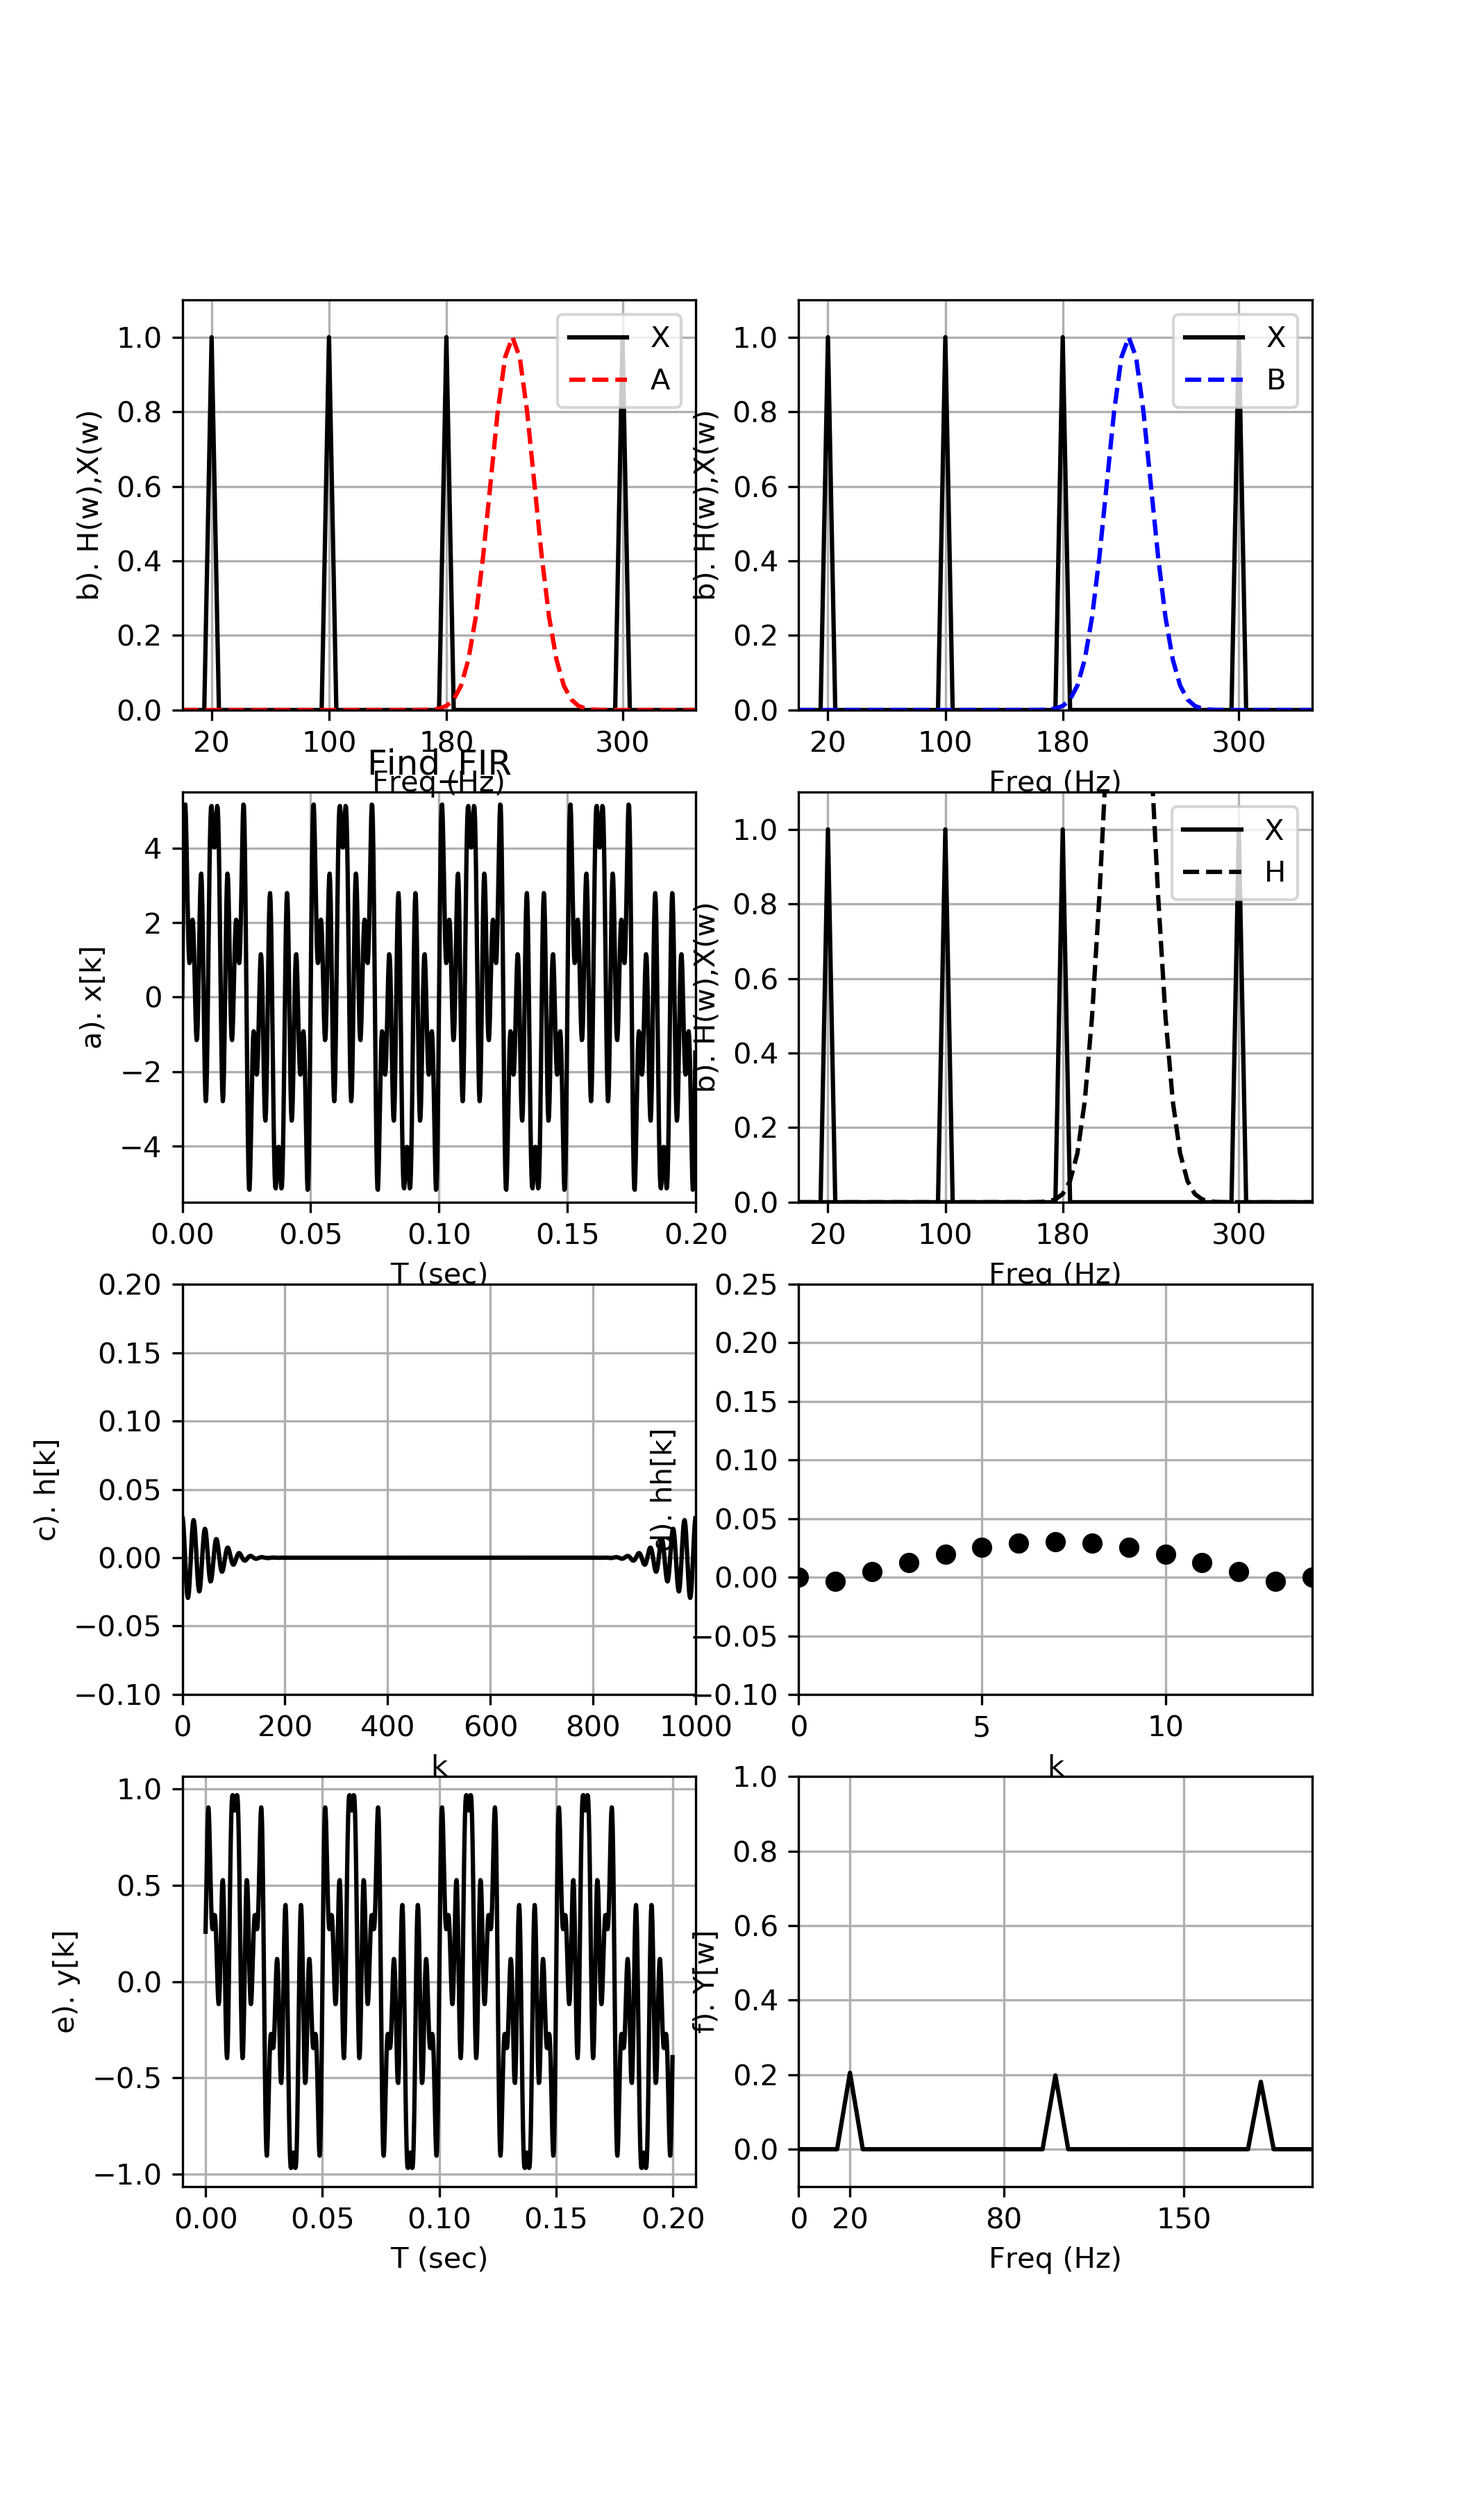
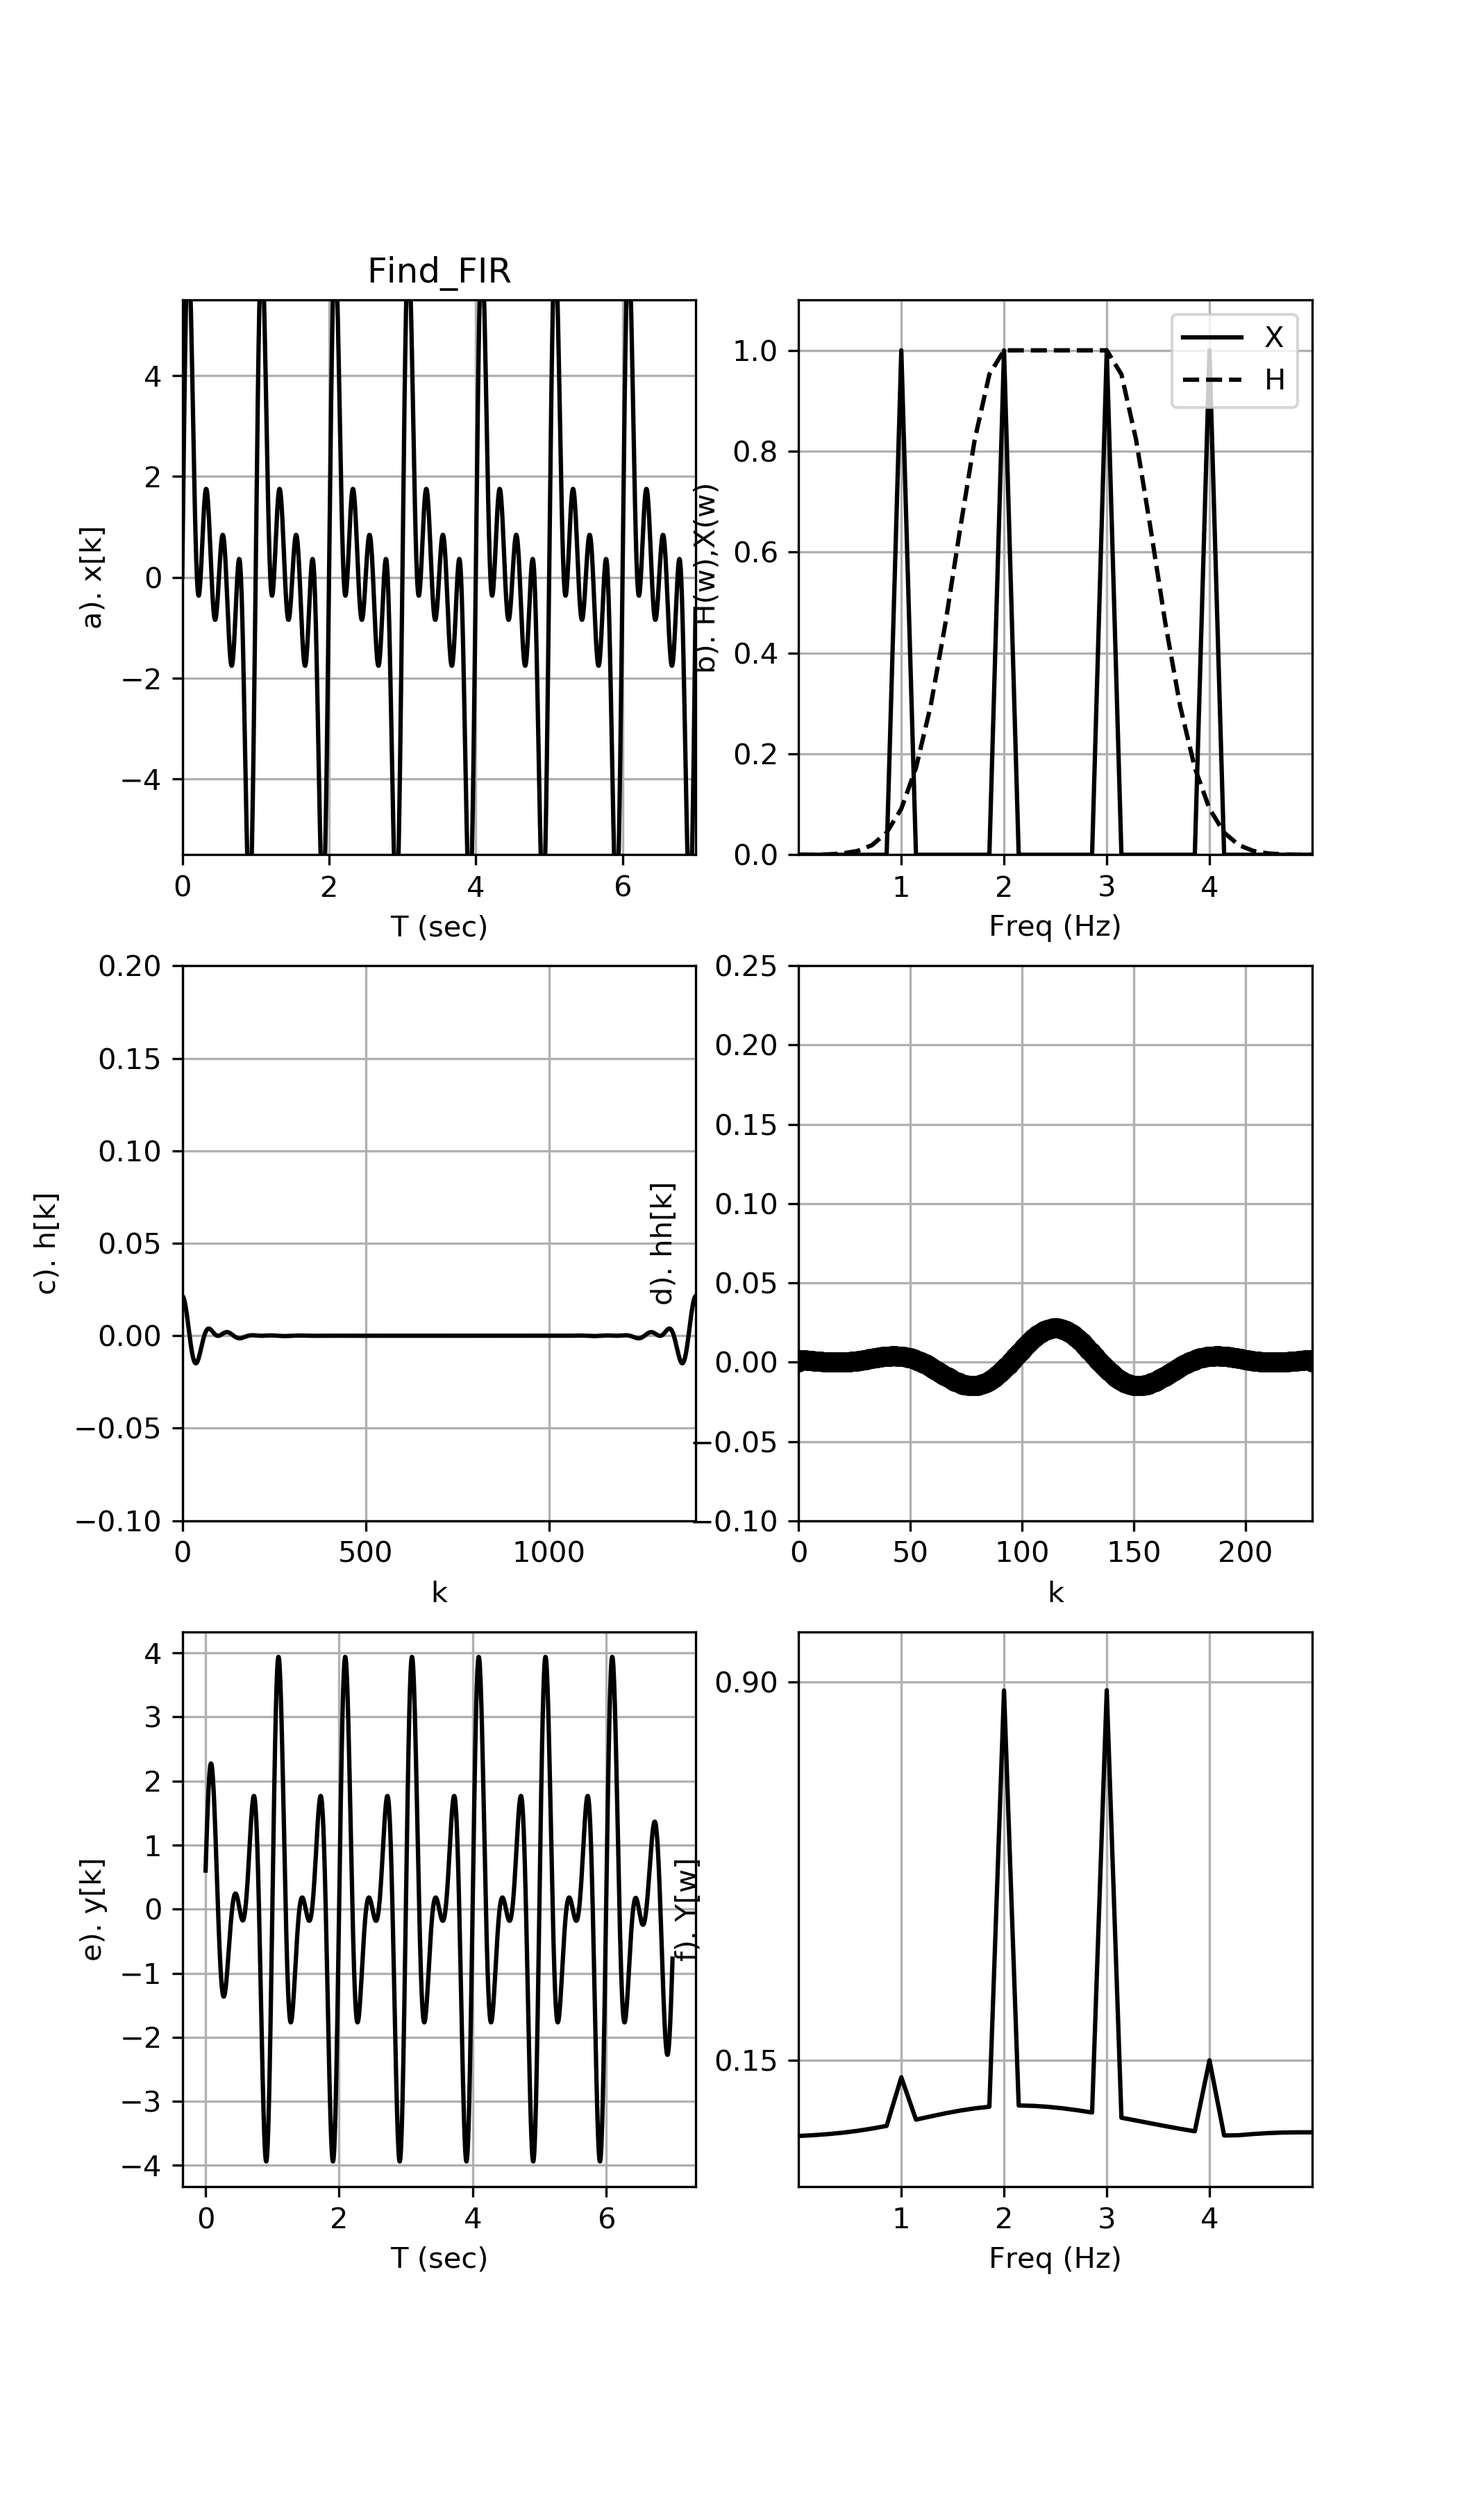
11-30-2023

diff --git a/FindFIR.py b/FindFIR.py
@@ -4,37 +4,40 @@ import matplotlib.pyplot as plt
 import numpy as np
 from scipy import signal as sig
 from math import pi, exp, cos, sin, log, sqrt
-dt = .0002
-NN = 1000
+
+dt = .005
+NN = 1400
 
 N2 = int(NN/2)
 x = np.zeros(NN)
 y = np.zeros(NN)
 
 def bandaid(first,H):
+    first = int(first)
     I = H
-    fend = first + 0
+    tol = 3.2
+    fend = int(first + first/2)
     for n in range(first):
-        I[n] = exp(-.5*((n-first)/3)**2)
+        I[n] = exp(-.5*((n-first)/tol)**2)
     for n in range(first,fend):
         I[n] = 1
     for n in range(fend,N2):
-        I[n] = exp(-.5*((n-fend)/3)**2)
+        I[n] = exp(-.5*((n-fend)/tol)**2)
     return I
 
 
 TT = np.linspace(0,dt*(NN-1),NN)
 DF = 1/(dt*NN)
 FF = np.linspace(0,DF*(NN-1),NN)
-f1 = 20
-f2 = 100
-f3 = 180
-f4 = 300
+f1 = 1
+f2 = 2
+f3 = 3
+f4 = 4
 
-freq1 = 2*pi*f1
-freq2 = 2*pi*f2
-freq3 = 2*pi*f3
-freq4 = 2*pi*f4
+freq1 = f1*2*pi
+freq2 = f2*2*pi
+freq3 = f3*2*pi
+freq4 = f4*2*pi
 
 x = 2*np.sin(freq1*TT)
 x+= 2*np.sin(freq2*TT)
@@ -42,7 +45,7 @@ x+= 2*np.sin(freq3*TT)
 x+= 2*np.sin(freq4*TT)
 
 plt.figure(figsize=[7,12])
-plt.subplot(423)
+plt.subplot(321)
 plt.plot(TT,x,'k')
 plt.axis([0,NN*dt,-5.5,5.5])
 plt.text(5,-15,'$\phi$ = {}'.format(round(14,3)),fontsize=12)
@@ -62,29 +65,8 @@ H = np.zeros(NN)
 #for n in range(4,16):
 # H[n] = exp(-.5*((n-4)/4)**2)
 """ Band pass """
-A = bandaid(20,H)
-B = bandaid(45,H)
-H = A+B
+H = bandaid(NN/100,H)
 
-plt.subplot(421)
-plt.plot(FF,abs(X),'k',label='X')
-plt.plot(FF,A,'r--',label='A')
-plt.legend(loc='upper right')
-plt.ylabel('b). H(w),X(w)')
-plt.xlabel('Freq (Hz)')
-plt.grid()
-plt.axis([0,350,0,1.1])
-plt.xticks([20,100,180,300])
-
-plt.subplot(422)
-plt.plot(FF,abs(X),'k',label='X')
-plt.plot(FF,B,'b--',label='B')
-plt.legend(loc='upper right')
-plt.ylabel('b). H(w),X(w)')
-plt.xlabel('Freq (Hz)')
-plt.grid()
-plt.axis([0,350,0,1.1])
-plt.xticks([20,100,180,300])
 """ High pass """
 #for n in range(15):
 # H[n] = exp(-.5*((n-15)/4)**2)
@@ -94,34 +76,35 @@ plt.xticks([20,100,180,300])
 for n in range(1,N2-1):
     H[NN-n] = H[n]
 Y = H*X
-plt.subplot(424)
+plt.subplot(322)
 plt.plot(FF,abs(X),'k',label='X')
 plt.plot(FF,H,'k--',label='H')
 plt.legend(loc='upper right')
 plt.ylabel('b). H(w),X(w)')
 plt.xlabel('Freq (Hz)')
 plt.grid()
-plt.axis([0,350,0,1.1])
-plt.xticks([20,100,180,300])
+plt.axis([0,5,0,1.1])
+plt.xticks([1,2,3,4])
 
 h = np.fft.ifft(H)
 
-plt.subplot(425)
+plt.subplot(323)
 plt.plot(h.real,'k')
 plt.xlabel('k')
 plt.ylabel('c). h[k]')
 plt.grid()
 plt.axis([0,NN,-.1,.2])
 
-M = 7
+M = 115
 hh = np.zeros(NN)
 
 """ Move the filter to the left side """
 for n in range(M):
     hh[n+M] = h[n].real
     hh[M-n] = hh[M+n]
+    print('hh[',n,']=',hh[n])
 
-plt.subplot(426)
+plt.subplot(324)
 plt.plot(hh,'ok')
 plt.axis([0 ,2*M,-.1,.25])
 plt.xlabel('k')
@@ -136,7 +119,7 @@ y = np.zeros(NN)
 for n in range(NN):
     y[n] = yy[n+M]
 
-plt.subplot(427)
+plt.subplot(325)
 plt.plot(TT,y,'k')
 plt.ylabel('e). y[k]')
 plt.xlabel('T (sec)')
@@ -144,10 +127,11 @@ plt.grid()
 
 Y = (1/NN)*np.fft.fft(y)
 
-plt.subplot(428)
+plt.subplot(326)
 plt.plot(FF,abs(Y),'k')
-plt.axis([0,200,-.1,1])
-plt.xticks([0,20,80,150])
+plt.axis([0,5,-.1,1])
+plt.xticks([1,2,3,4])
+plt.yticks([0.15,0.9])
 plt.ylabel('f). Y[w]')
 plt.xlabel('Freq (Hz)')
 plt.grid()

diff --git a/Exam4.py b/Exam4.py
@@ -2,7 +2,7 @@
 #                                                              #
 # Zachary DeLuca                                               #
 # ECE 450                                                      #
-# Exam 2                                                       #
+# Exam 4                                                     #
 # Due: Oct 06                                                  #
 #                                                              #
 ################################################################
@@ -33,19 +33,32 @@ den = np.convolve(den,[1,2*cos(1*pi/3)*s,s**2])
 system = sig.lti(num,den)
 w,Hmag,Hphase = sig.bode(system)
 
-plt.figure(figsize= (10,5))
+plt.figure(figsize= (8,8))
+plt.subplot(2,1,1)
 plt.title('Third Order Low Pass',size = 20)
 plt.axis([s/10,s*10,0,1])
 plt.axvline(s,color ="RED",linestyle='dotted')
 plt.axvline(s*4,color ="RED",linestyle='dotted')
-plt.xlabel('$\omega$ rad/s')
+#plt.xlabel('$\omega$ rad/s')
 plt.ylabel('|H|')
 plt.xticks([s,s*4])
-plt.yticks([0,0.01,0.95,0.707,1])
+plt.yticks([0,0.1,0.95,0.707,1])
 plt.grid(which='both')
 plt.semilogx(w,10**(0.05*Hmag),'k')
 plt.savefig('Bode.png',dpi=300)
 
+plt.subplot(2,1,2)
+plt.title('Third Order Low Pass Phase',size = 12)
+plt.axis([s/10,s*10,0,1])
+plt.axvline(s,color ="RED",linestyle='dotted')
+plt.axvline(s*4,color ="RED",linestyle='dotted')
+plt.xlabel('$\omega$ rad/s')
+plt.ylabel('$\phi$')
+plt.xticks([s,s*4])
+plt.yticks([0,-45,-90,-180,-270])
+plt.grid(which='both')
+plt.semilogx(w,Hphase,'k')
+plt.savefig('Bode.png',dpi=300)
 #dt = 0.001
 #NN = 50000
 #TT = np.arange(0,NN*dt,dt)

diff --git a/nFinder.py b/nFinder.py
@@ -22,13 +22,13 @@ from math import pi, exp, cos, sin, log, sqrt
 from control import margin
 from control import tf
 
-wp = 0.9
-Hp2 = (0.9)**2
+wp = 0.99
+Hp2 = (0.707)**2
 
 np = math.log10(1/Hp2 -1)/(2*math.log10(wp))
 
-ws = 2.2
-Hp2 = (0.1)**2
+ws = 4
+Hp2 = (0.01)**2
 
 ns = math.log10(1/Hp2 -1)/(2*math.log10(ws))
 print('np =',np)
